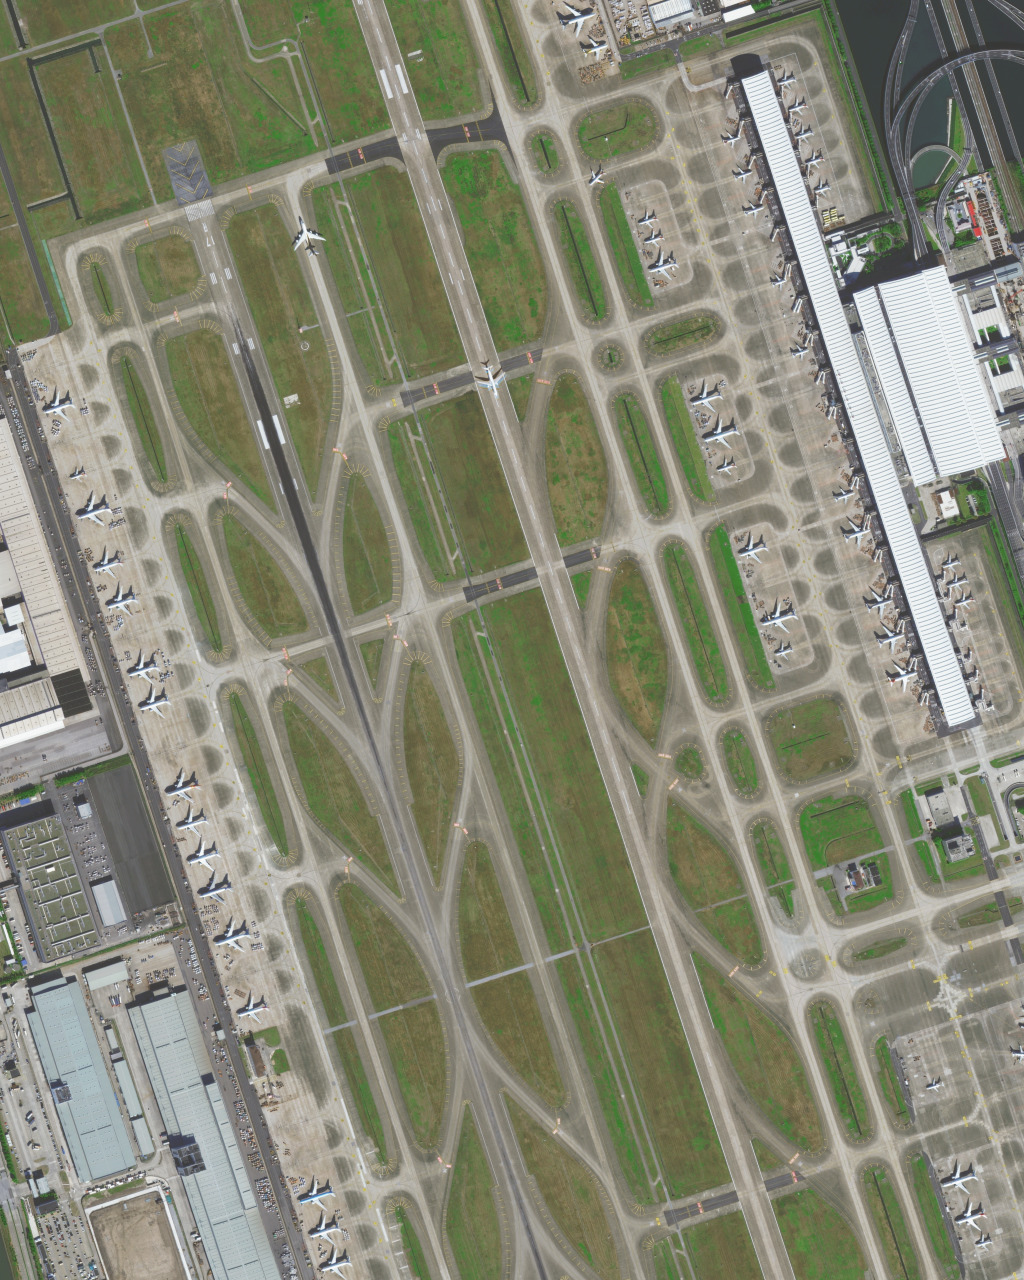
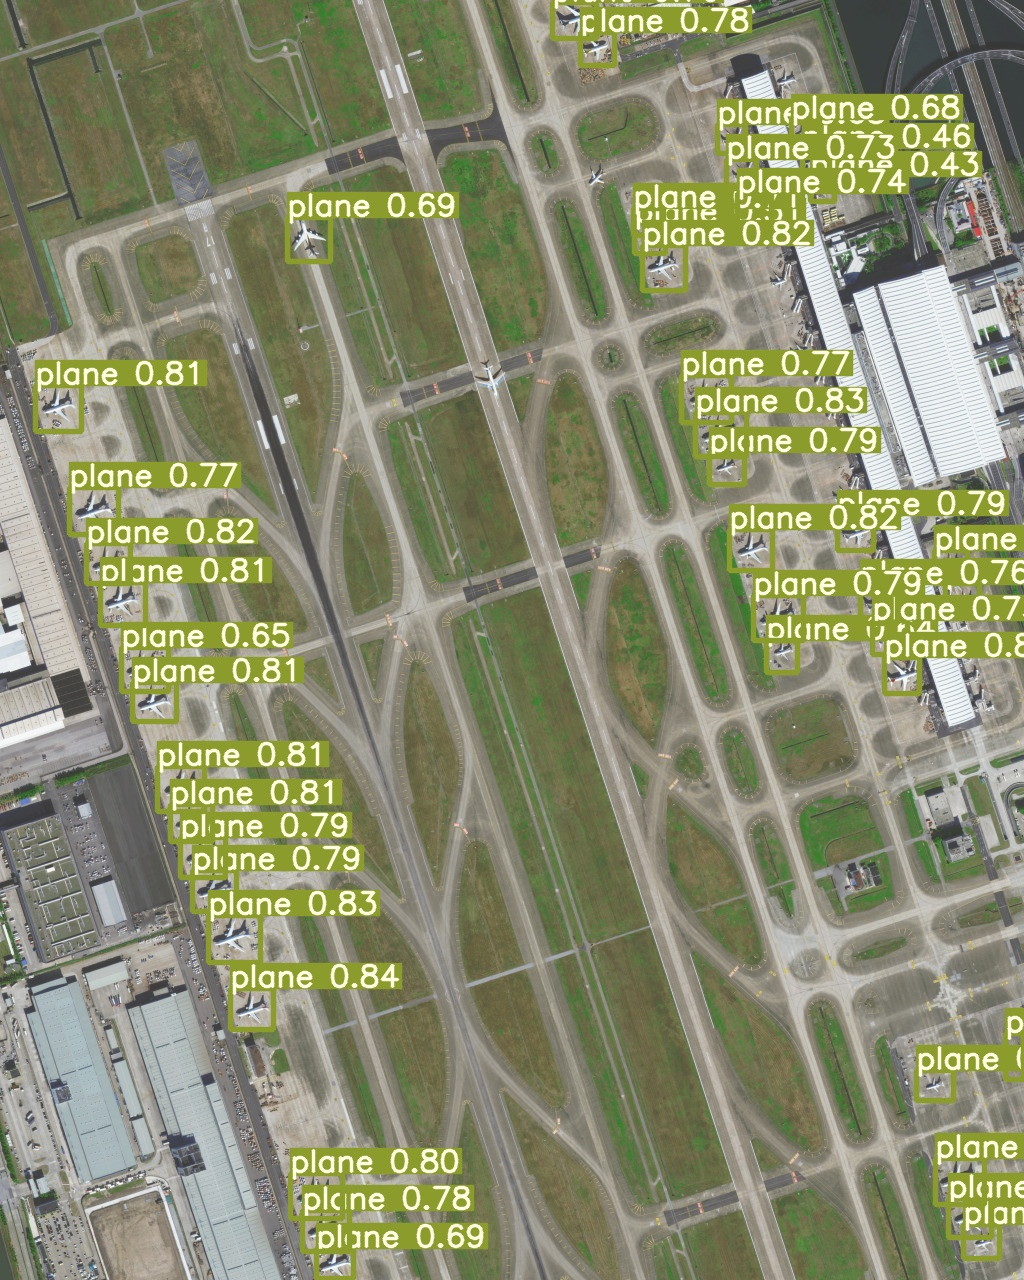
fix bug

diff --git a/Satellite/satellite_client.py b/Satellite/satellite_client.py
@@ -2,10 +2,12 @@ import logging
 from time import sleep
 
 import grpc
+import os
 from protos import SatCom_pb2
 from protos import SatCom_pb2_grpc
 from satellite import SatelliteInfo
 from utils.tile import getTile
+from detect import ObjectDetector
 
 
 class SatelliteClient:
@@ -14,6 +16,7 @@ class SatelliteClient:
         self.satellite = SatelliteInfo(sat_id)
         self.channel = None  # 保存通道对象
         self.stub = None  # 保存存根对象
+        self.detector = ObjectDetector()
 
     def connect(self):
         print("Trying to connect ...")
@@ -95,8 +98,12 @@ class SatelliteClient:
         if zone.request_identify:
             with open('tile.jpg', 'wb') as f:
                 f.write(tile)
-            self.detect()
-            
+            self.detector.detect()
+            with open('./models/output/tile.jpg', 'rb') as f:
+                tile = f.read()
+            # delete both files
+            os.remove('tile.jpg')
+            os.remove('./models/output/tile.jpg')
         sat_photo_request = SatCom_pb2.SatPhotoRequest(
             timestamp = str(self.satellite.get_satellite_info()[1]), # 获取时间戳
             zone = zone,
